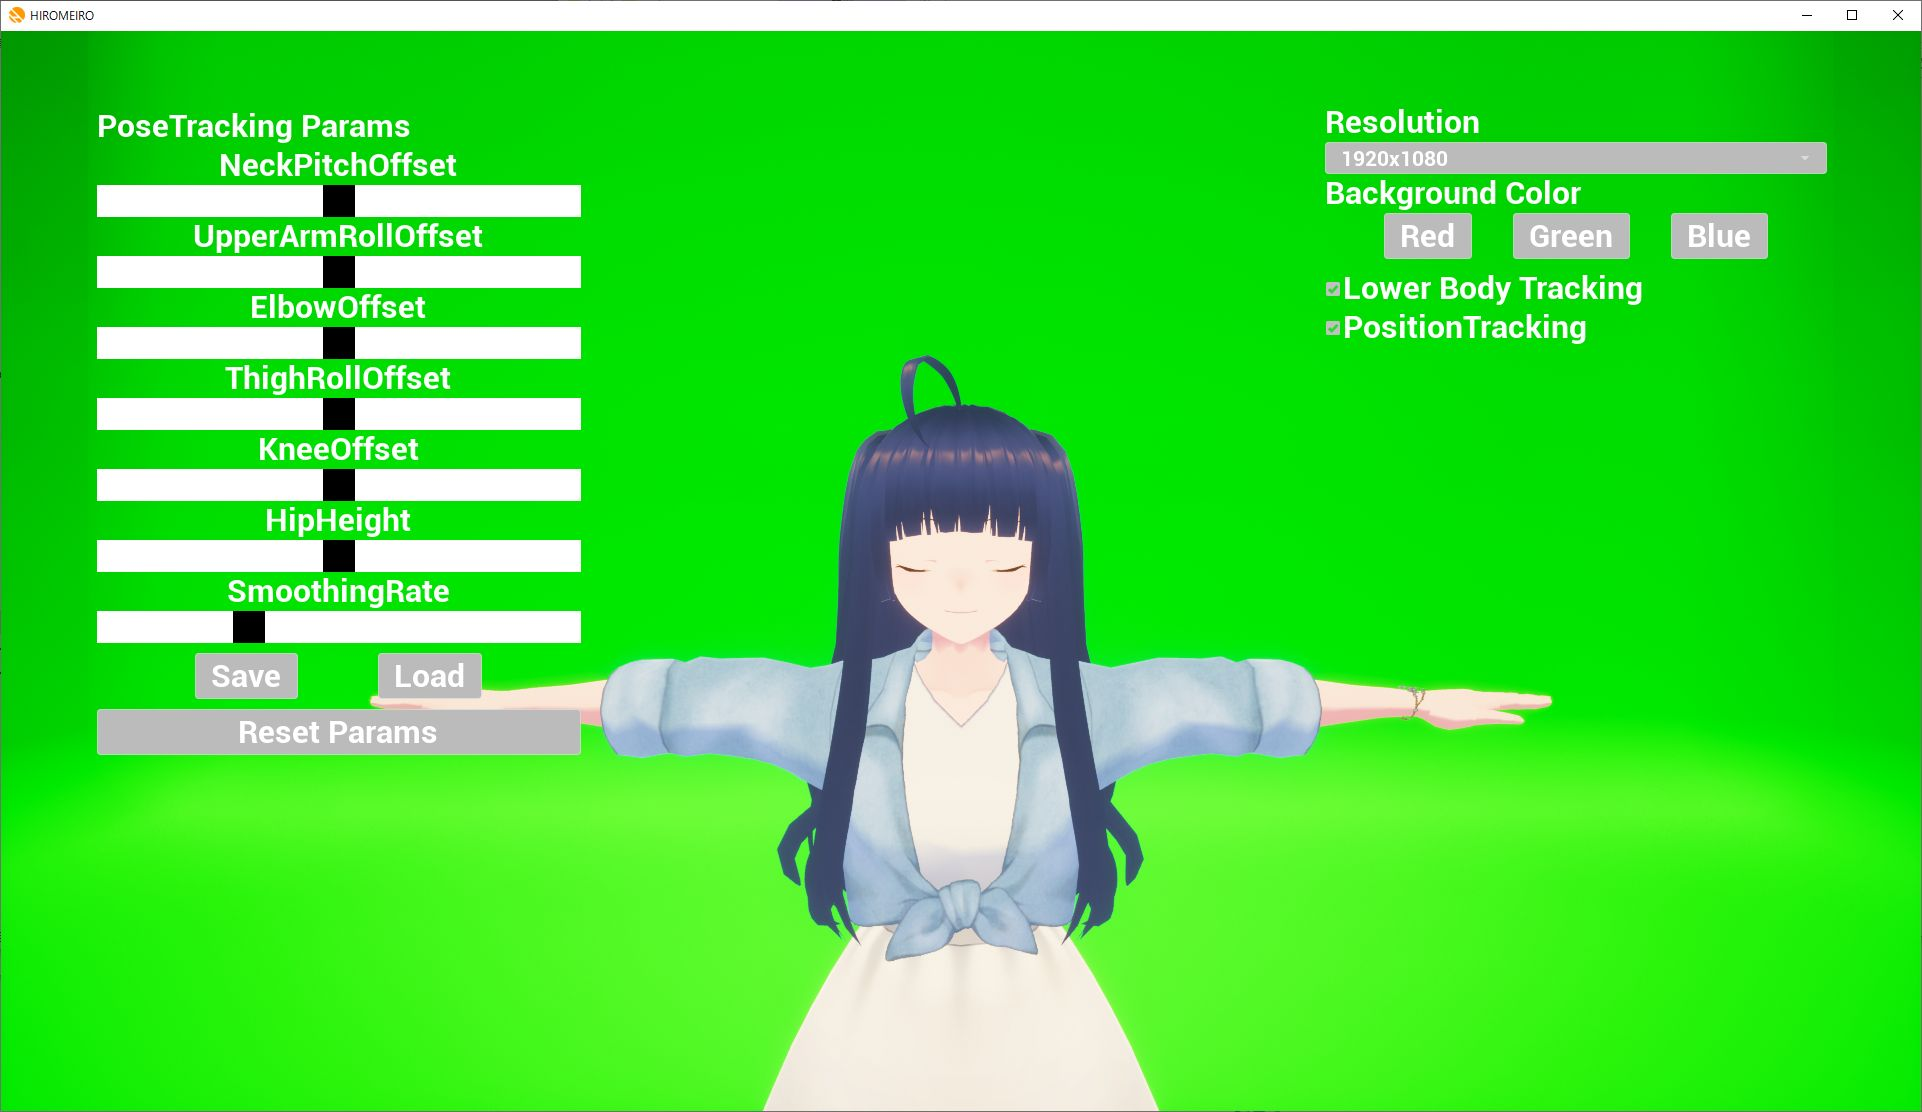
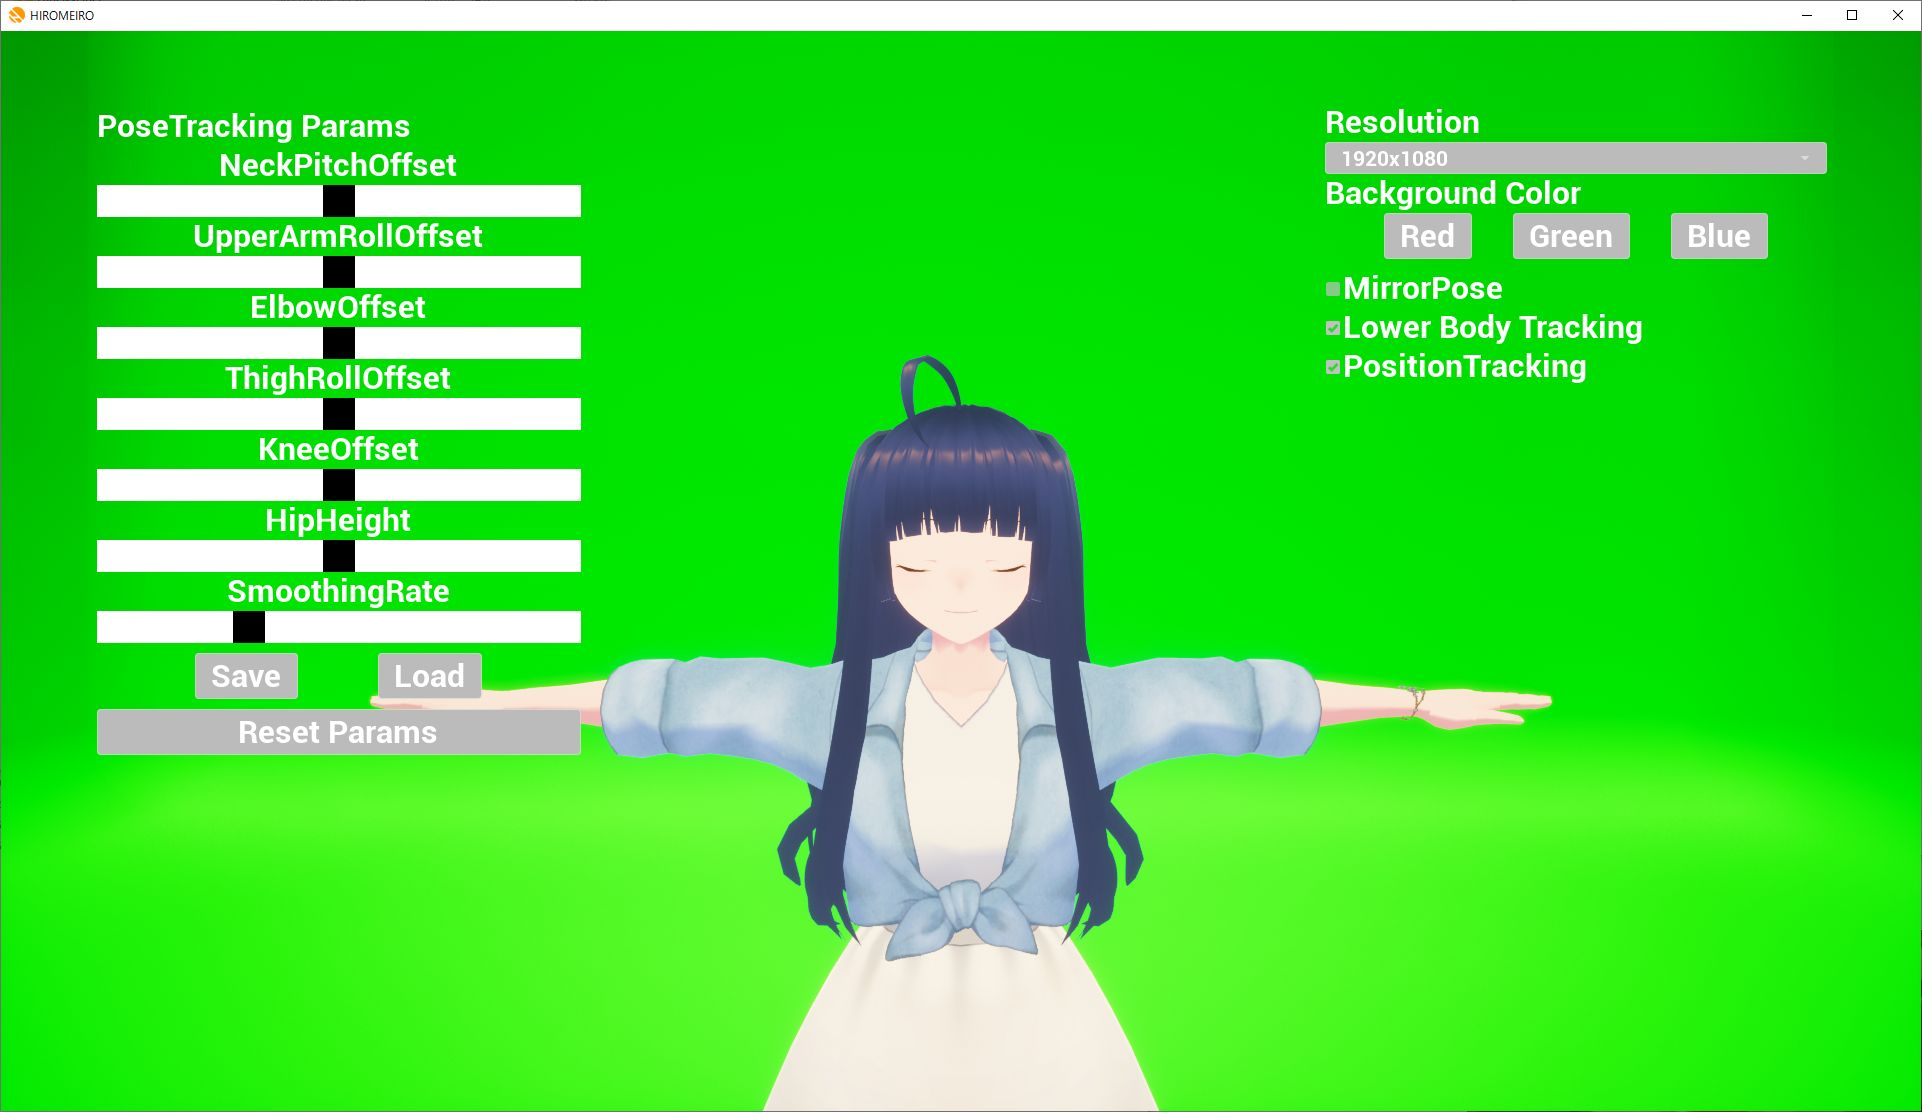
update date, add mirror pose mode (#3)

Changed region(s): [[0.6868, 0.2446, 0.8741, 0.3363], [0.999, 0.8255, 1.0, 1.0]]

diff --git a/index.md b/index.md
@@ -204,14 +204,19 @@ Loadを押すとセーブした設定を再読込します。
 緑色が使われているモデルなど、
 グリーンバックで色が抜けない場合にご利用ください。
 
-(12)下半身トラッキングのチェックボックスを外すと、
+(12)鏡像反転のチェックボックスを有効にすると
+姿勢をすべて左右方向に反転します。
+スマホのインカメラは鏡像となっているため、チェックすることで
+本来のご自身の動きを反映したものになります。
+
+(13)下半身トラッキングのチェックボックスを外すと、
 上半身のみトラッキングモードに移行します。
 上半身のみトラッキングモードでは
 顔と肩の角度、両手の位置を用いてトラッキングを行います。
 椅子に座った姿勢など上半身だけを動かす必要がある場合、
 カメラの画角に全身が映りきらない場合にご利用ください。
 
-(13)位置トラッキングのチェックボックスを外すと、
+(14)位置トラッキングのチェックボックスを外すと、
 腰位置のトラッキングを行わないモードに移行します。
 このモードは上半身のみモードで
 位置推定がうまく行かない場合にご利用ください。
